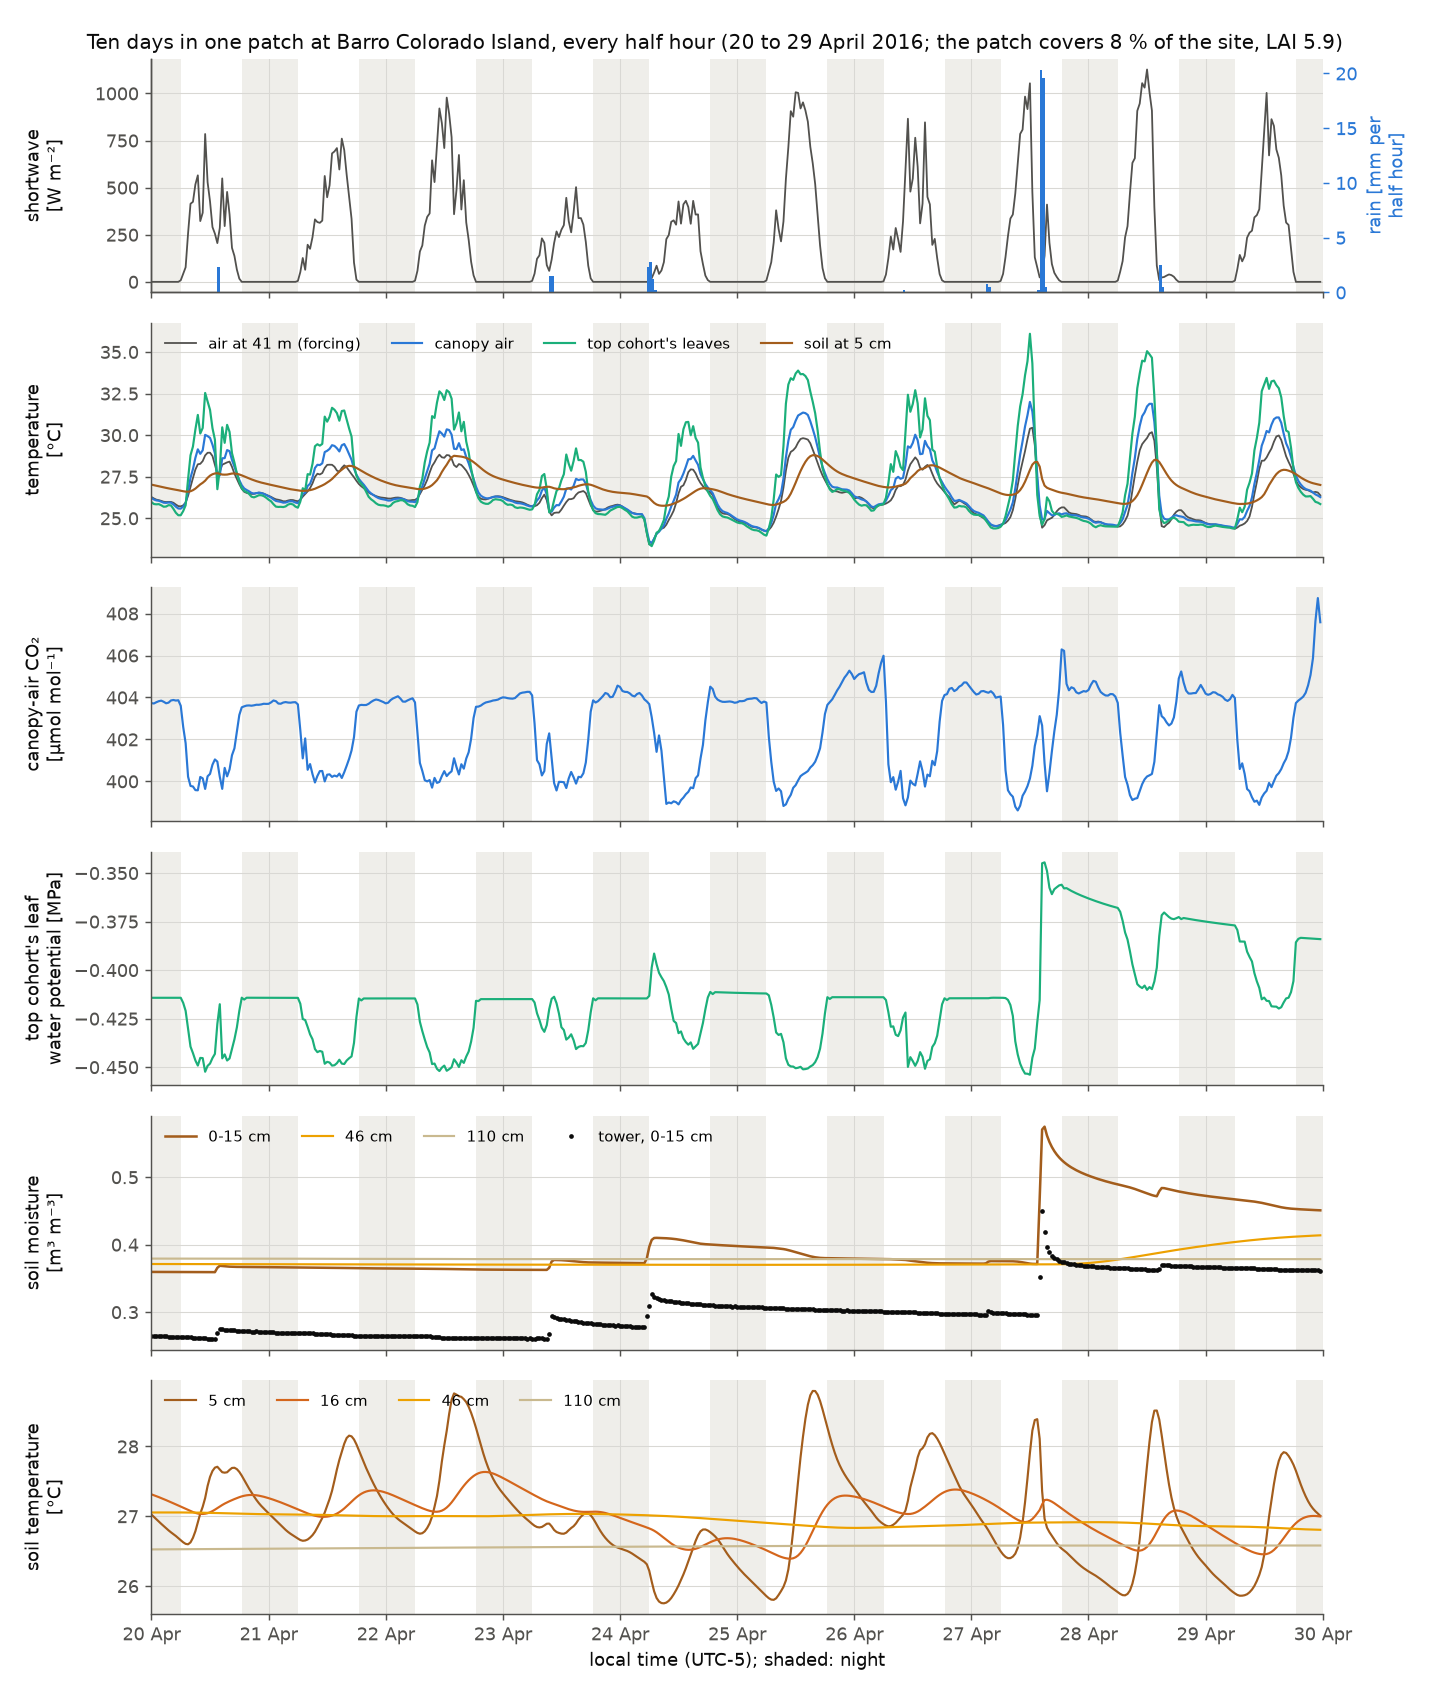
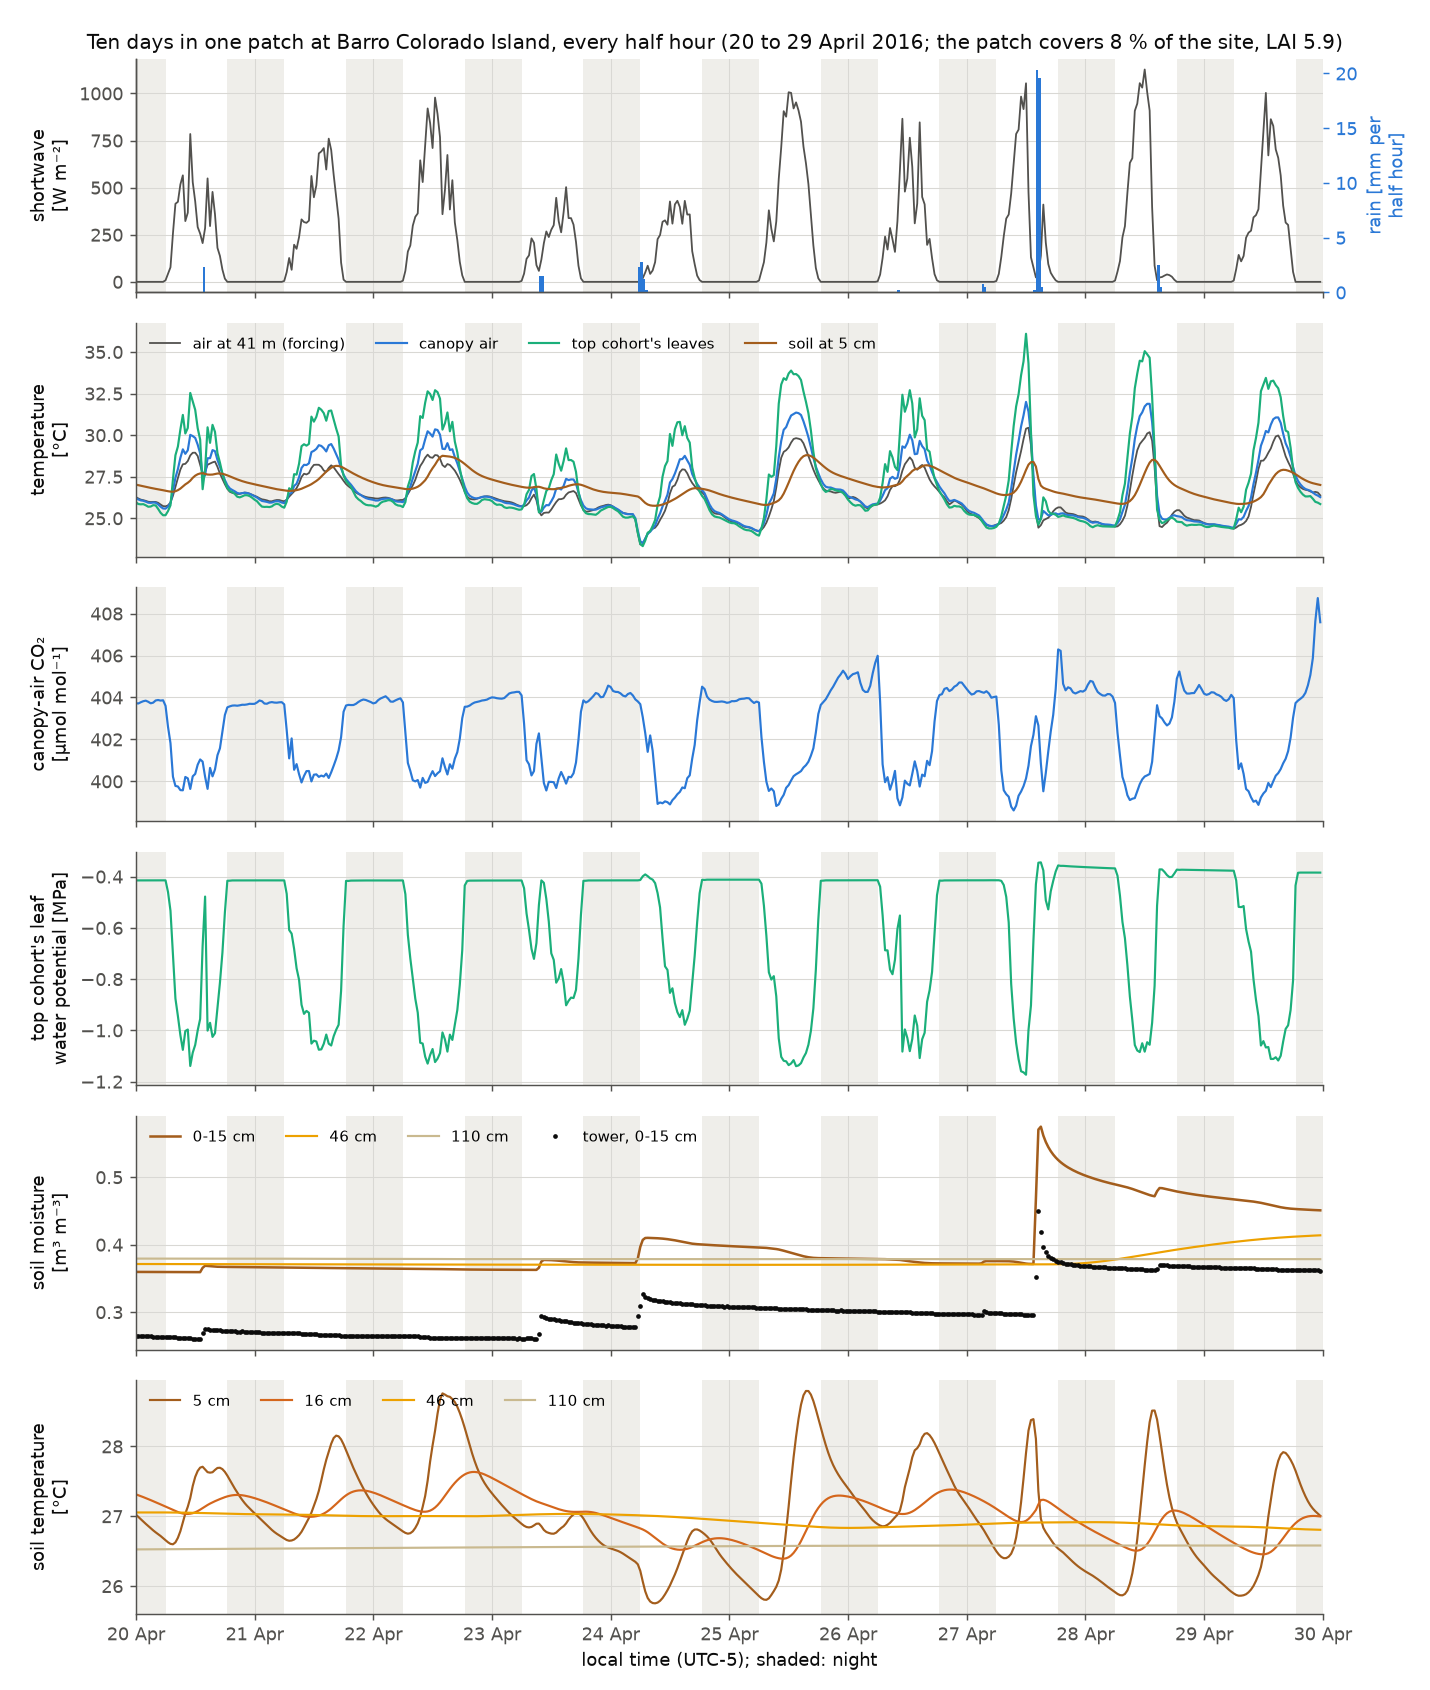
Plant conductance is the sapwood's, with wood_kmax from wood density
The plant's maximum wood->leaf conductance is now only the sapwood form,
wood_kmax * sapwood area / (height * vessel_curl). wood_kmax defaults per PFT
to the Xu et al. (2016) fit on wood density, exp(2.348 - 2.455 rho + 0.6186/2),
as ED2 codes it (plant_hydro_scheme 2), with rho held to 0.35-0.95;
pft.wood_kmax overrides it.

- Removed the whole-plant conductance (k_plant_max per leaf area) and the
  [hydraulics].conductance switch; hydraulics.k_plant_max, pft.k_plant_max,
  hydraulics.conductance and hydraulics.wood_kmax are retired keys.
- Fixed: the column handed the cohort's sapwood area to the hydraulics in cm2
  instead of m2 (10^4 x the conductance). cm2_to_m2 moved to meds_constants.
- BCI example 04: the canopy trees' daily leaf-psi range goes from 0.03 to
  0.42-0.52 MPa (top tree 0.04 -> 0.68-0.75 in the dry season); five-year
  fluxes move < 0.1 %, so the calibration stands. README section 5,
  window.png and evaluation.png refreshed.

diff --git a/docs/science/plant_hydraulics.md b/docs/science/plant_hydraulics.md
@@ -95,12 +95,28 @@ K_{ij}=k_{\text{cond}}\,\frac{\Phi(\psi_{up})-\Phi(\psi_{down})}{\psi_{up}-\psi_
 \;\xrightarrow[\Delta\psi\to0]{}\; k_{\text{cond}}\,k(\psi)
 ```
 
-$k_{\text{cond}}$ is the maximum (fully-hydrated) per-plant conductance. `[hydraulics].conductance`
-picks its form: `"whole_plant"` (default), $`k_{\text{cond}}=k_{plant\_max}\cdot\text{leaf area}`$, or
-`"segment"`, $`k_{\text{cond}}=w_{kmax}\cdot A_{sap}/(H\cdot\text{vessel\_curl})`$ from stem allometry
-(Huber value $`H_v=A_{sap}/A_{leaf}`$). `wood_kmax` and `vessel_curl` are read only in segment
-mode, and `k_plant_max` only in whole-plant mode. Before v0.3.1 there was no key for the mode, so
-`wood_kmax` and `vessel_curl` were accepted and never used. For general $`a\notin\{1,2\}`$ the integral is precomputed once into a fixed
+$k_{\text{cond}}$ is the maximum (fully-hydrated) per-plant conductance, the sapwood's over the
+path from the stem base to the crown:
+
+```math
+k_{\text{cond}}=\frac{K_s\,A_{sap}}{H\cdot\text{vessel\_curl}},\qquad
+K_s=\exp\!\left(2.348-2.455\,\rho+\tfrac{1}{2}\,0.6186\right)
+```
+
+$A_{sap}$ is the sapwood area of the stem allometry, $H$ the plant's height, and `vessel_curl`
+(1.5, as in ED2) lengthens the path beyond the height. $K_s$ [kg m⁻¹ s⁻¹ MPa⁻¹], the sapwood
+specific conductivity, is a PFT trait: by default it follows the PFT's wood density $\rho$
+[g cm⁻³] through the fit of Xu et al. (2016, New Phytol 212:80) to 72 species of neotropical
+seasonally dry forests, as ED2 codes it (`plant_hydro_scheme` 2). The fit is lognormal, so the
+residual variance 0.6186 turns its median into the mean (×1.36); $\rho$ outside 0.35–0.95 takes
+the nearest edge. $K_s$ is 6.0 at $\rho$ = 0.35, 3.3 at 0.60 and 1.4 at 0.95; `pft.wood_kmax`
+overrides it. Wood density explains a fifth of the variance ($R^2$ 0.21): one species' $K_s$ can
+lie a factor of 2 either side. Branches of Panama canopy trees span about 1.6–12, and 2–4 at
+$\rho$ = 0.6 (Meinzer et al. 2008), and FATES's default is 3.0. For a 35 m BCI canopy
+tree (72 cm dbh, 0.30 m² of sapwood, 553 m² of leaf) the 0.60 value gives
+$k_{\text{cond}}$ = 0.019 kg s⁻¹ MPa⁻¹: 1.9 mmol m⁻² s⁻¹ MPa⁻¹ per unit leaf area, and
+63 g m⁻² s⁻¹ MPa⁻¹ per unit sapwood, inside the 25–131 measured from soil to branch on Panama
+canopy trees (Meinzer et al. 2003). For general $`a\notin\{1,2\}`$ the integral is precomputed once into a fixed
 uniform-grid **lookup table** $G(r)$ and read by linear interpolation on the hot path (the closed
 forms are kept for $`a\in\{1,2\}`$); the table stores $r$-normalized $G$, so $\psi_{50}$ is a runtime
 scale.
@@ -203,10 +219,8 @@ machine-precision water budget from the converged storage change $\Delta W$.
 | $w_{sat}$ | `leaf_water_sat`, `wood_water_sat` | saturated water content [kg H₂O / kgC] |
 | $\psi_{50}$ | `wood_psi50` | xylem potential at 50 % loss of conductance [MPa] |
 | $a$ | `wood_kexp` | vulnerability-curve shape [–] |
-| $`k_{plant\_max}`$ | `k_plant_max` | max whole-plant conductance [kg s⁻¹ MPa⁻¹ m⁻²_leaf] |
-| — | `conductance` | `"whole_plant"` (default) or `"segment"`: which of the two rows below sets $k_{\text{cond}}$ |
-| $K_s$ | `wood_kmax` | sapwood specific conductivity (segment mode) [kg m⁻¹ s⁻¹ MPa⁻¹] |
-| — | `vessel_curl` | tortuosity / path-length factor (segment mode) [–] |
+| $K_s$ | `pft.wood_kmax` | sapwood specific conductivity [kg m⁻¹ s⁻¹ MPa⁻¹]; default from wood density (Xu et al. 2016) |
+| — | `vessel_curl` | tortuosity / path-length factor [–] |
 | — | `rhizo_cond` | rhizosphere conductance (single-BC) [kg s⁻¹ MPa⁻¹] |
 | $\beta$ | `root_beta` | the root profile within the rooting depth [–], $0<\beta<1$ (ED2: 0.1) |
 | $`b_{1Rd}, b_{2Rd}`$ | `root_depth_b1`, `root_depth_b2` | rooting depth $`b_{1Rd}\,h^{b_{2Rd}}`$ [m], capped at the soil column (ED2 IALLOM 1) |

diff --git a/CHANGELOG.md b/CHANGELOG.md
@@ -171,6 +171,25 @@ before and after.
       tower's sensor (it matched at 0.28 on the 2 m column): the roots draw from the wettest layers,
       so the dry season's water comes from the whole 6 m column rather than from the top. A big
       canopy tree's leaf ψ moves only 0.04 MPa a day, wet season or dry.
+- **A plant's internal conductance is its sapwood's, with the sapwood's conductivity from wood
+  density.** The maximum wood→leaf conductance is `wood_kmax` × sapwood area / (height ×
+  `vessel_curl`), and `wood_kmax` [kg m⁻¹ s⁻¹ MPa⁻¹] is exp(2.348 − 2.455 ρ + 0.6186 / 2), the fit of
+  Xu et al. (2016, New Phytol 212:80) to 72 neotropical species, as ED2 codes it
+  (`plant_hydro_scheme` 2); ρ is held to 0.35–0.95. It is 3.3 at ρ = 0.6, against 2–4 measured on
+  the branches of Panama canopy trees and FATES's 3.0. `pft.wood_kmax` overrides it per PFT.
+  - **Gone:** the whole-plant conductance per unit leaf area (`k_plant_max`, 6×10⁻⁴ kg s⁻¹ MPa⁻¹
+    m⁻², 33 mmol m⁻² s⁻¹ MPa⁻¹), which was the default, and the key that chose between the two.
+    For a 35 m BCI canopy tree the sapwood gives 1.9 mmol m⁻² s⁻¹ MPa⁻¹.
+  - **Config (breaking).** `hydraulics.k_plant_max`, `pft.k_plant_max`, `hydraulics.conductance`
+    and `hydraulics.wood_kmax` are refused, each naming what replaced it. `vessel_curl` (1.5) stays.
+  - **At BCI** (example 04, calibrated; old → new). The daily range of leaf ψ of the canopy trees
+    (over 25 m, every patch) goes from 0.03 to 0.42 MPa in the wet season (October 2015; midday
+    −0.38 → −0.77) and from 0.03 to 0.45–0.52 MPa in the 2016 dry season (March and late April;
+    midday −0.42 → −0.84 to −0.91). The 35 m tree on top of the largest patch goes from 0.04 to
+    0.68–0.75 MPa in the dry season (midday −0.44 → −1.09 to −1.15). Measured canopy trees reach
+    −0.9 to −1.2 MPa at midday in the wet season and −1.4 to −2.0 in the dry. Predawn ψ is unchanged
+    (−0.40 in the dry season, against −0.6 to −1.0 measured). The five-year fluxes move by less than 0.1 %: midday leaf ψ stays above the
+    turgor-loss point (−1.7 MPa), where the stomata start to close, so the calibration stands.
 - **`sw_partition = "weiss_norman"` takes its band constants from Weiss & Norman (1985)** (#369).
   - **What changed:** the sun's beam above the atmosphere is 600 W m⁻² visible and 720 W m⁻²
     near-infrared, and 1320 W m⁻² scales the water-vapour absorption. These replace ED2's 0.43 and
@@ -183,6 +202,11 @@ before and after.
 
 ### Fixed
 
+- **The plant hydraulics read the sapwood area in m².** The cohort keeps it in cm²
+  (`sapwood_area`), and the column handed it on unconverted, so the sapwood conductance was 10⁴
+  times too large: the leaves' ψ did not move at all over a day. Only the segment conductance, which
+  no config had selected, read the area, so no earlier run changed. `cm2_to_m2` moved from the
+  output code to `meds_constants`.
 - **A sunrise or sunset forcing interval keeps its shortwave** (#371).
   - **The bug:** the partition into beam and diffuse, PAR and NIR took the cos z at the interval's
     midpoint. When that was dark, all four streams came out zero, however much light the record

diff --git a/examples/example04_column_biophysics/README.md b/examples/example04_column_biophysics/README.md
@@ -217,11 +217,13 @@ a site mean would average the closed forest with the gaps; its top cohort is its
   air; at 110 cm it does not move.
 - **Canopy-air CO₂** falls 4–10 µmol mol⁻¹ by day as the canopy draws it down and returns at night,
   highest on the calmest night (29–30 April, u\* 0.26 m s⁻¹).
-- **Leaf water potential.** The top cohort's leaves sit at −0.41 MPa at night and −0.45 at midday
-  through the dry days, a daily range of 0.04 MPa, and rise to −0.35 to −0.42 after the storm. The
-  tree reaches moist soil (5 m of roots in a 6 m column, which stays near −0.06 MPa below 1 m), so it
-  refills every night; the midday drop is small because the whole-plant conductance is high
-  against the canopy's transpiration.
+- **Leaf water potential.** The top cohort's leaves refill to −0.41 MPa every night and fall to
+  −1.1 MPa at midday on the bright days (−0.9 to −1.0 on the overcast 23rd and 24th), a daily range
+  of 0.7 MPa; after the storm they refill to −0.34 to −0.37. The midday drop is the canopy's transpiration through the
+  sapwood (3.3 kg m⁻¹ s⁻¹ MPa⁻¹ at this PFT's wood density). The night level barely moves because
+  the tree reaches moist soil (5 m of roots in a 6 m column, which stays near −0.06 MPa below 1 m).
+  Panama's canopy trees measure −0.6 to −1.0 MPa before dawn and −1.4 to −2.0 at midday in a dry
+  season, so the model's tree has more water than the measured ones.
 - **Soil moisture.** The model's top 15 cm stays at 0.37 m³ m⁻³ through the dry days, 0.09 wetter than
   the tower's 0–15 cm sensor (0.28): the roots draw from the wettest layers, so the dry season's
   water comes from the whole column rather than from the top. The storm wets the top 15 cm to 0.57

diff --git a/docs/configuration.md b/docs/configuration.md
@@ -71,7 +71,7 @@ All non-PFT settings. Named on the command line; it names the PFT file via `[ini
 | `[soil_column]` | The **physical ground**: layer count, depth, grid growth, hydraulic texture, retention family, thermal properties. |
 | `[soil]`, `[energy]`, `[snow]`, `[aerodynamics]` | The **solvers over it**: selectors and tolerances. `[soil]` also holds the bare ground's optics: `ground_albedo_vis`, `ground_albedo_nir` and `ground_emissivity`. |
 | `[soil_carbon]` | The CENTURY decomposition: selectors, rate parameters, cold-start spin-up. |
-| `[hydraulics]` | Plant water transport: the pressure–volume and vulnerability traits, the conductance form (`conductance = "whole_plant"` or `"segment"`), and the root profile (`root_beta`, `root_depth`). The root profile is a plant trait, so `[soil_column].root_beta` is refused. |
+| `[hydraulics]` | Plant water transport: the pressure–volume and vulnerability traits, the sapwood path factor `vessel_curl` (the sapwood conductivity follows wood density; `pft.wood_kmax` overrides it), and the roots (`root_beta`, `root_depth_b1`/`b2`, `specific_root_length`, `fine_root_radius`). The root profile is a plant trait, so `[soil_column].root_beta` is refused. |
 | `[forcing]`, `[site]` | The meteorological driver, and where the site is. |
 | `[region]` | For `mode = "region"` only: the box of forcing cells and which of them to simulate. |
 | `[output]` | Which diagnostics are written, on which axes, at which timescales. |

diff --git a/docs/ROADMAP.md b/docs/ROADMAP.md
@@ -205,8 +205,8 @@ page: [`science/diagnostics.md`](science/diagnostics.md).
   *calibrated* them. The thirteen traits are selectable per PFT and default to the shared
   `[hydraulics]` block, so a run that does not set them is unchanged — which means MEDS ships with
   hydraulically identical PFTs until somebody puts real trait values in. Wood density is the obvious
-  axis to derive them from (denser wood ⇒ more negative `wood_psi50`, lower `wood_kmax`), as the
-  Camac mortality coefficients already are.
+  axis to derive them from, as the Camac mortality coefficients already are, and `wood_kmax` now
+  is (Xu et al. 2016); `wood_psi50` (denser wood ⇒ more negative) is next.
 - **Phase B — per-layer root nodes.** *Planned.* [#180](https://github.com/xiangtaoxu/MEDS/issues/180) The plant hydraulic network resolves the root
   system as one node against a weighted soil boundary. Sources:
   `MEDS_MULTILAYER_ROOTS_DESIGN.md` §5, `MEDS_HYDRAULICS_DESIGN.md` §16.
